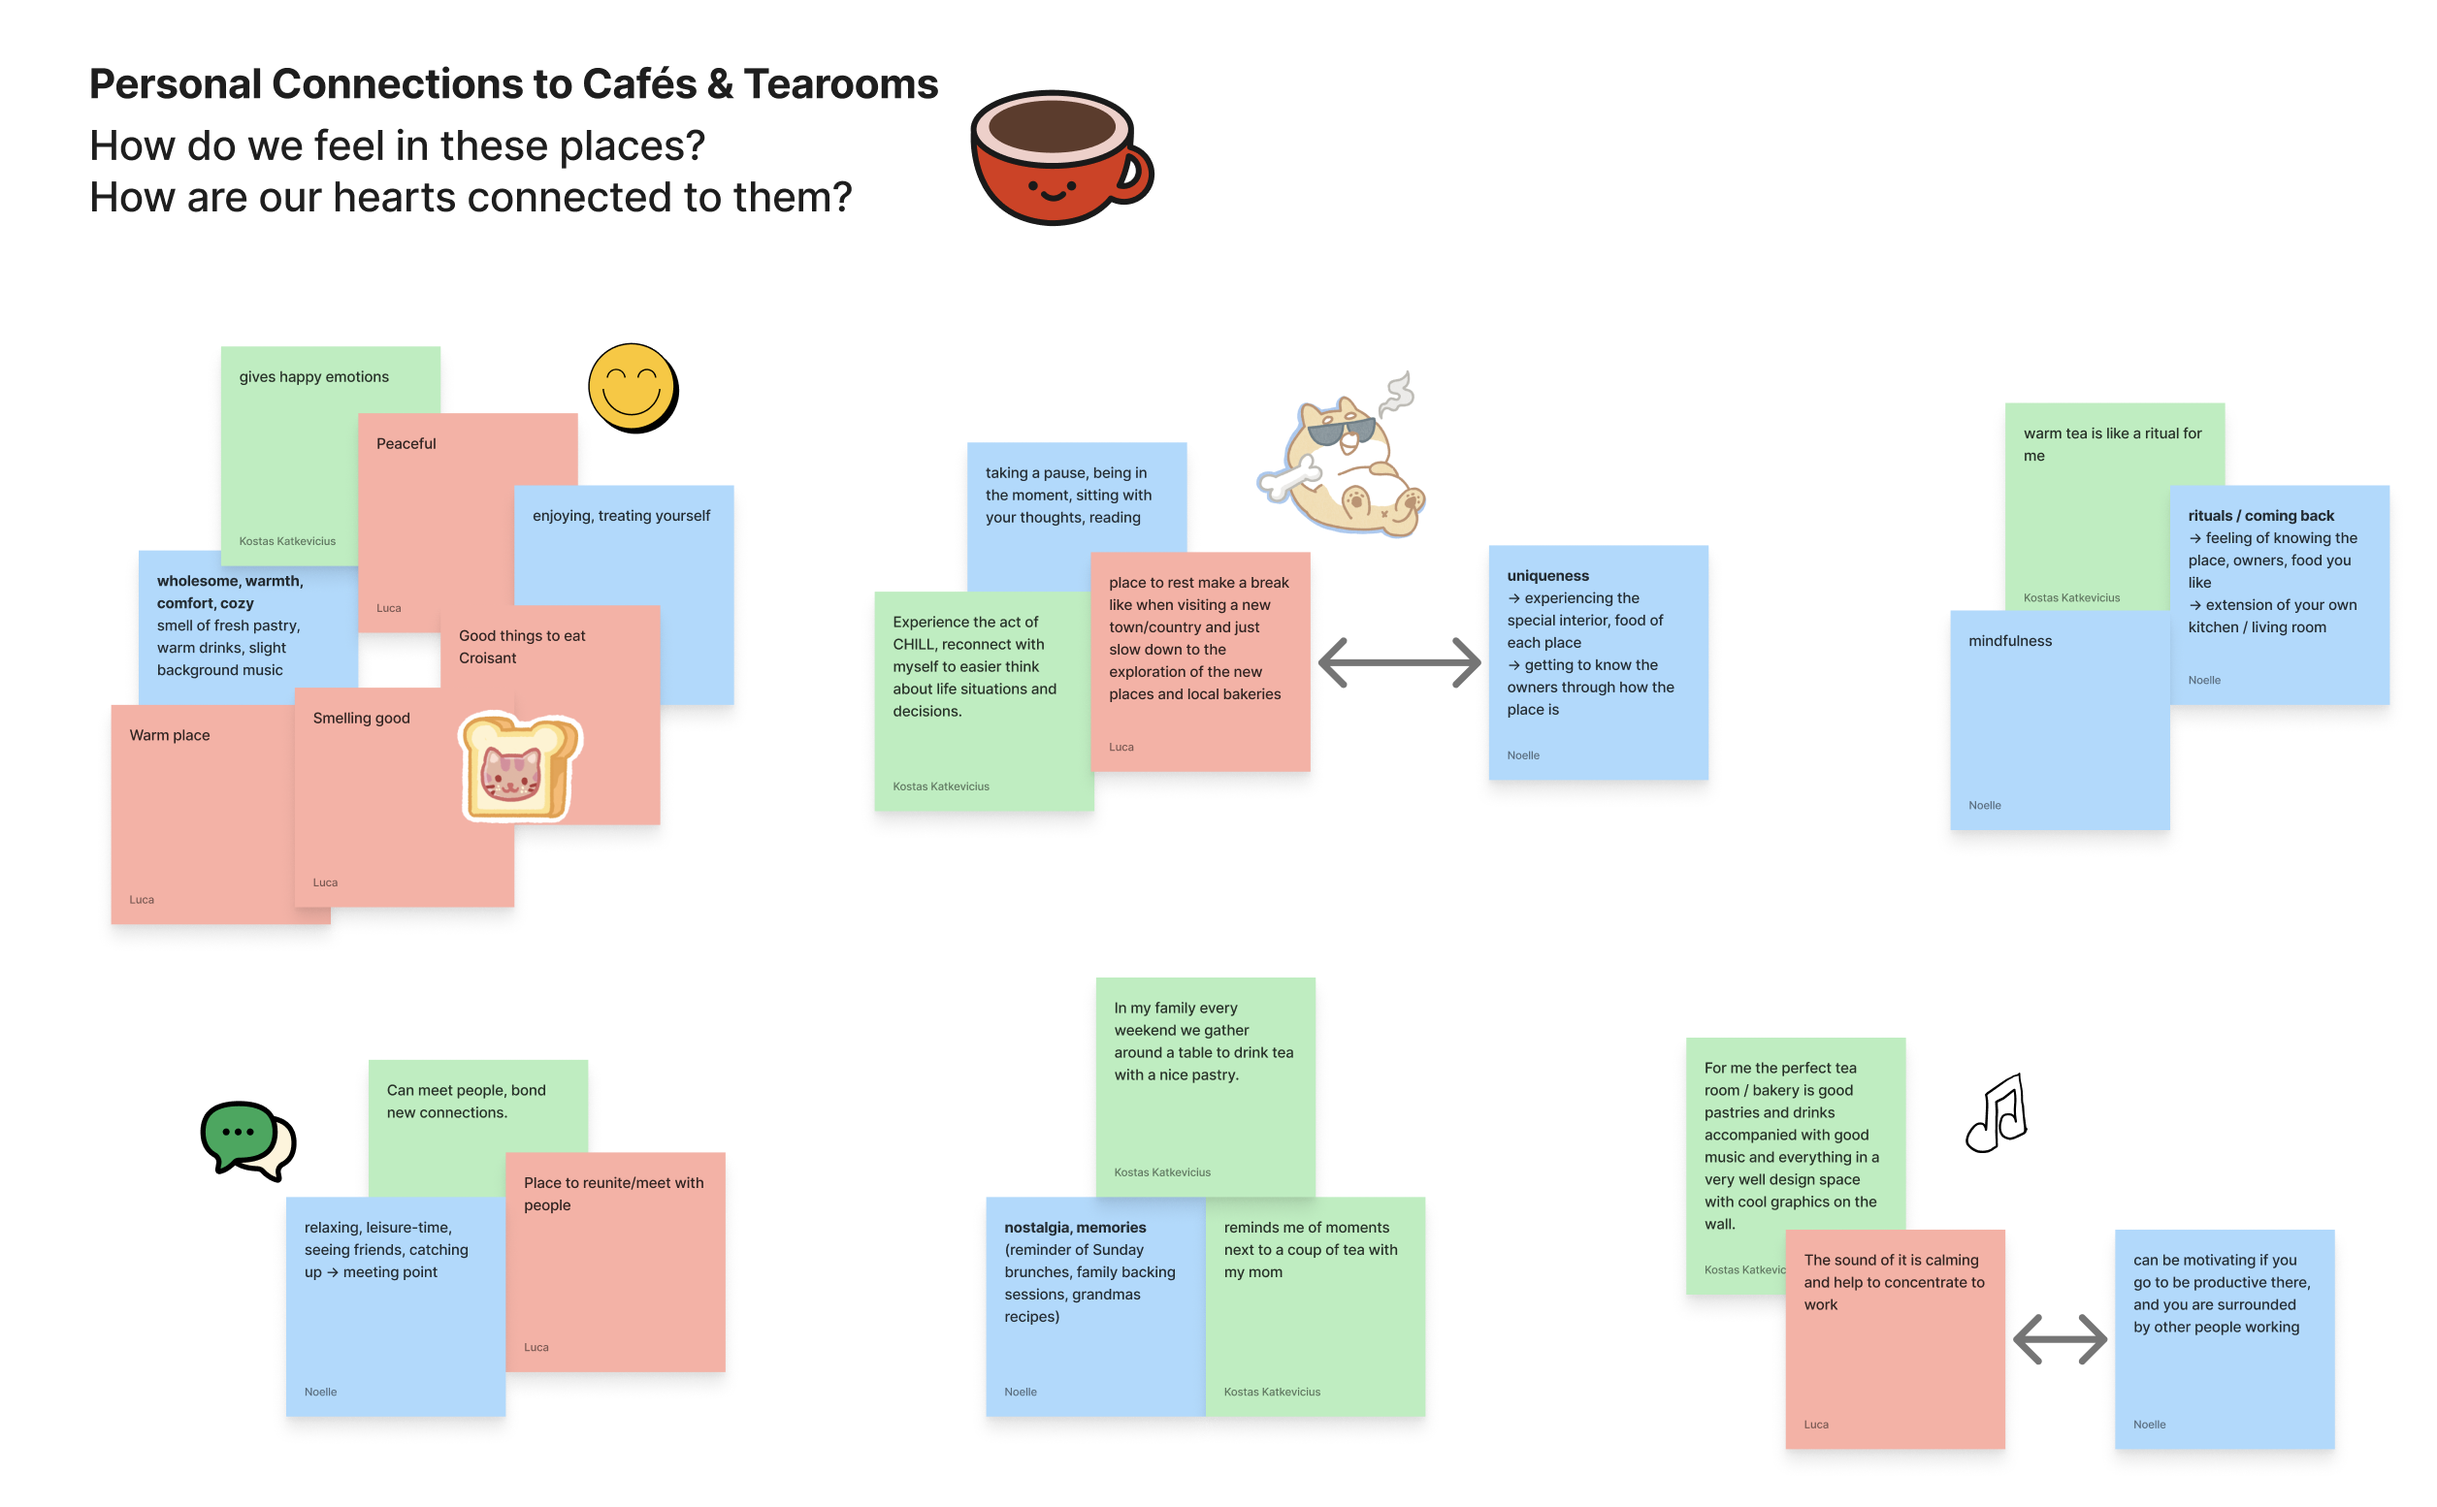
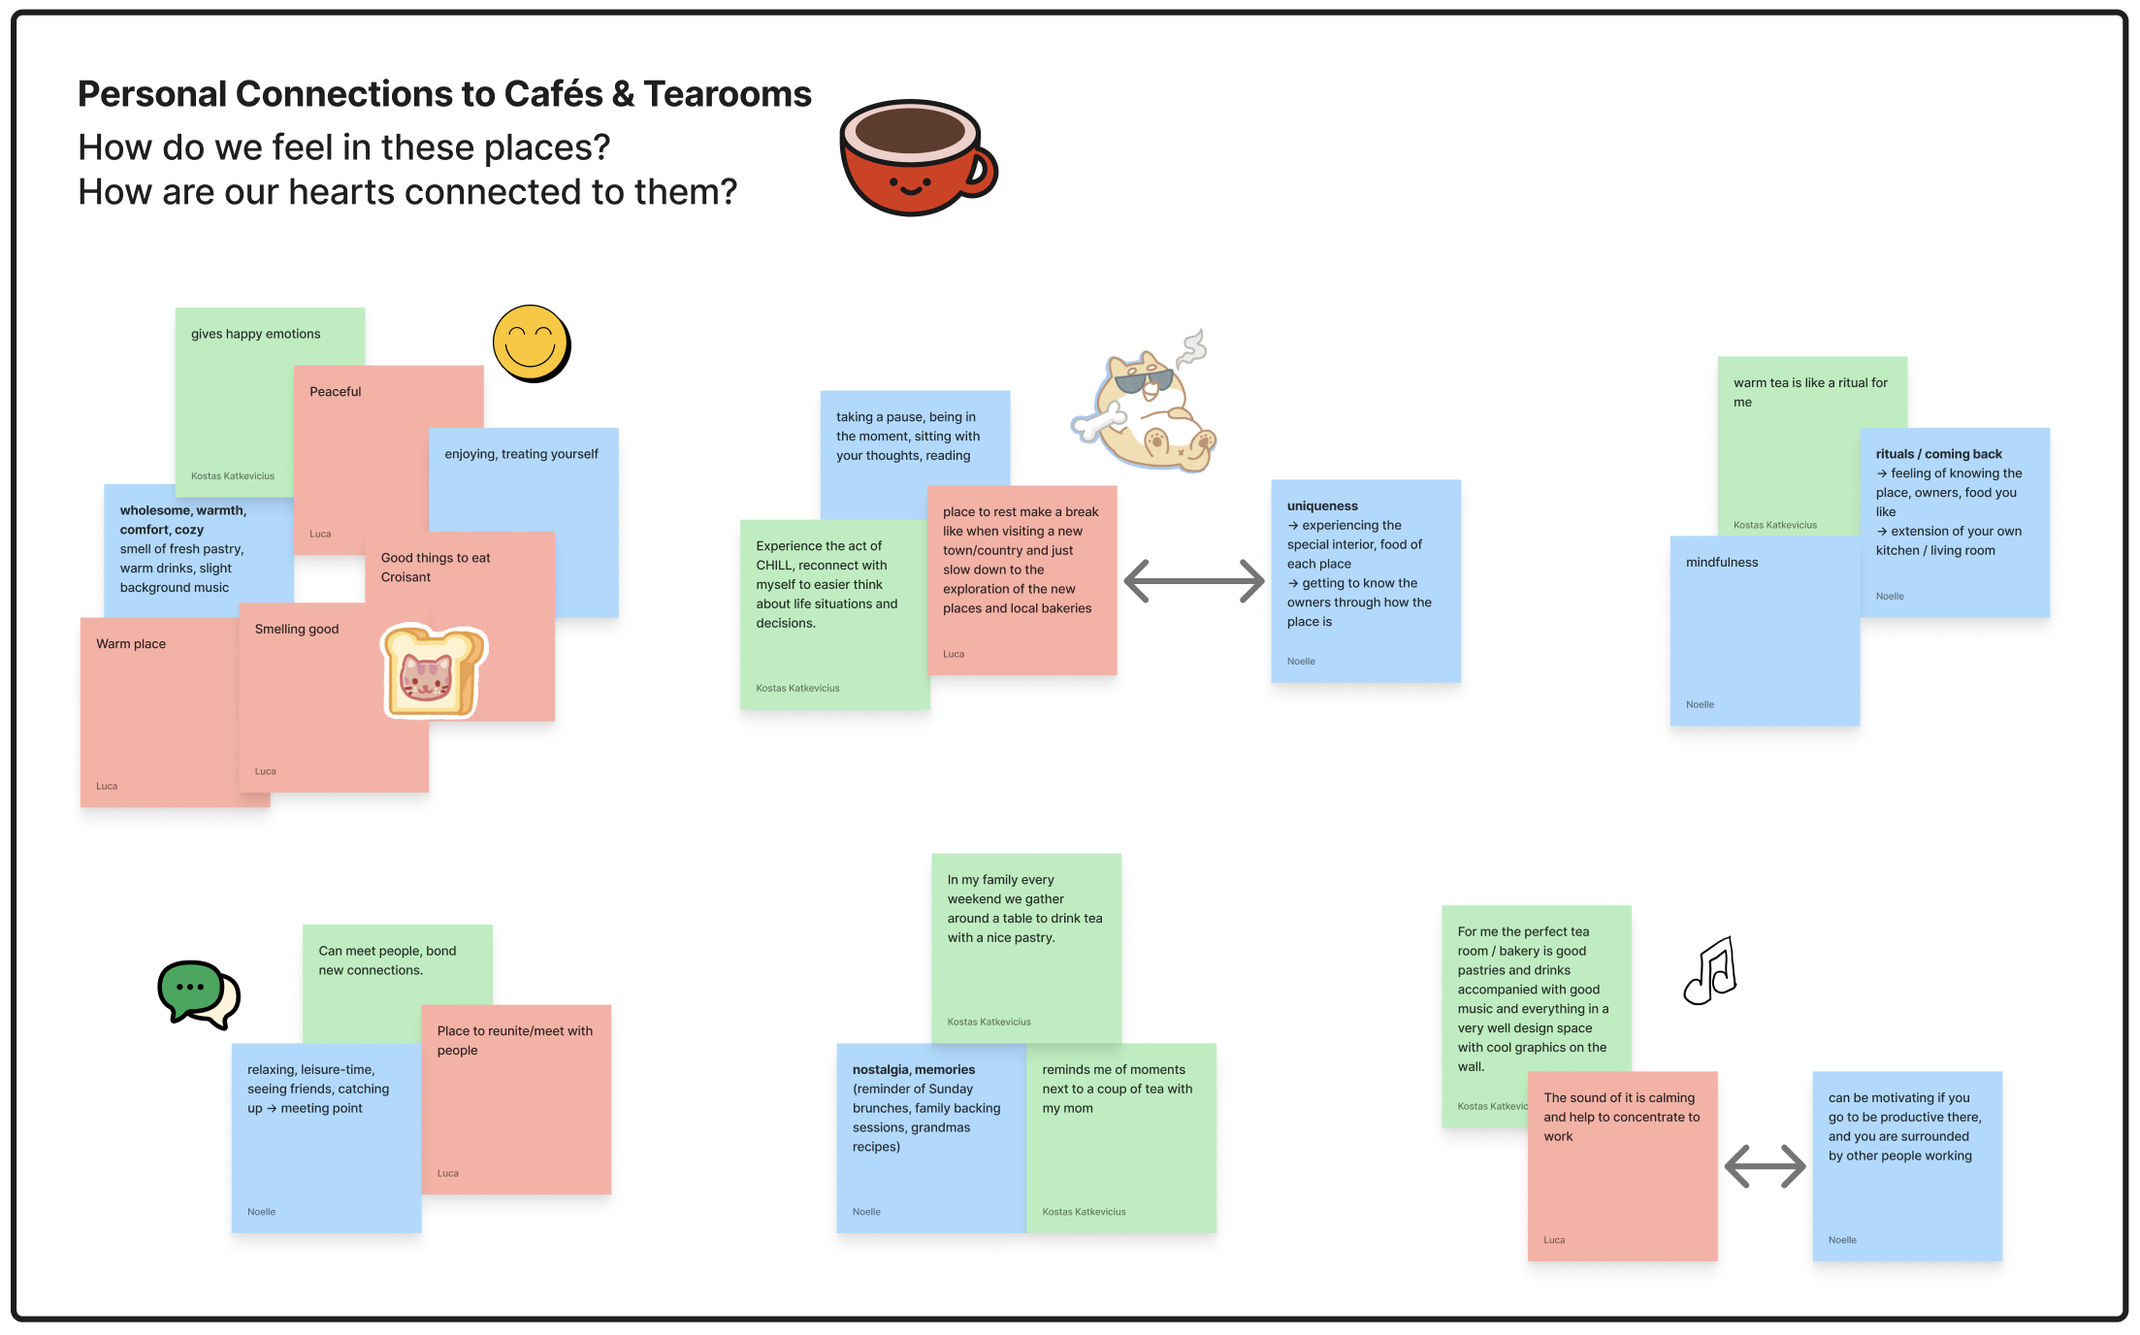
process update 06

Changed region(s): [[0.0, 0.0, 1.0, 1.0], [0.3391, 0.25, 0.709, 0.5625]]

diff --git a/process/02-ideation/01-personal-connection.md b/process/02-ideation/01-personal-connection.md
@@ -4,4 +4,4 @@ First brainstorming session to collect our personal memories, emotions, and stor
 
 Why do we go to cafés? How do we feel in cafés? What do we notice and pay attention to? What is special for each of us in these experiences?
 
-<img src="images/personal-connection.jpg" alt="" width="600" />
+<img src="images/personal-connection.jpg" alt="" width="800" />
